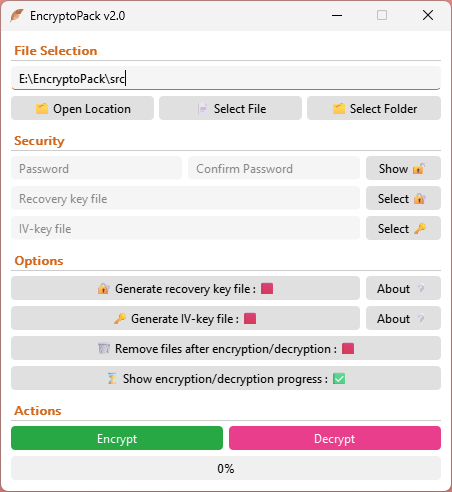
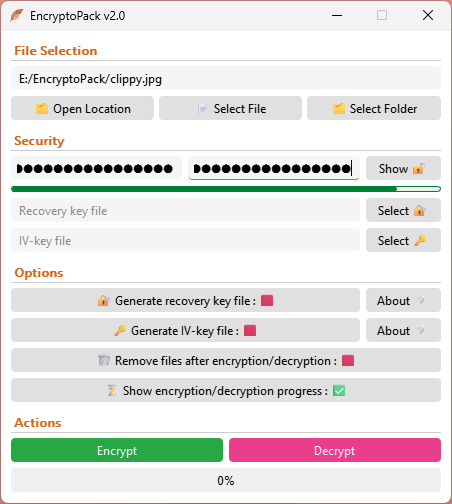
v2.1

diff --git a/src/gui.py b/src/gui.py
@@ -18,6 +18,61 @@ from PyQt6.QtCore import Qt
 import os
 import sys
 import subprocess
+import re
+
+
+class PasswordComplexityChecker:
+    """Checks password complexity and provides a strength score."""
+    @staticmethod
+    def check_password_strength(password):
+        """Check password complexity and return strength score (0-100)."""
+        if not password:
+            return 0
+
+        score = 0
+
+        # Length (max 30 points)
+        length_score = min(len(password) * 2, 30)
+        score += length_score
+
+        # Character variety (max 70 points)
+        variety_bonus = 0
+
+        # Uppercase letters
+        if re.search(r"[A-Z]", password):
+            variety_bonus += 10
+
+        # Lowercase letters
+        if re.search(r"[a-z]", password):
+            variety_bonus += 10
+
+        # Numbers
+        if re.search(r"[0-9]", password):
+            variety_bonus += 15
+
+        # Special characters
+        if re.search(r"[^A-Za-z0-9]", password):
+            variety_bonus += 20
+
+        # Additional bonus for multiple character types
+        char_types = 0
+        if re.search(r"[A-Z]", password):
+            char_types += 1
+        if re.search(r"[a-z]", password):
+            char_types += 1
+        if re.search(r"[0-9]", password):
+            char_types += 1
+        if re.search(r"[^A-Za-z0-9]", password):
+            char_types += 1
+
+        if char_types >= 3:
+            variety_bonus += 15
+        elif char_types >= 2:
+            variety_bonus += 5
+
+        score += min(variety_bonus, 70)
+
+        return min(score, 100)
 
 
 class PlaceholderLineEdit(QLineEdit):
@@ -30,7 +85,7 @@ class PlaceholderLineEdit(QLineEdit):
         user_interaction (bool): Tracks if user has interacted with the field
         user_input (bool): Tracks if user has entered any text
     """
-    def __init__(self, placeholder='', color='gray', parent=None):
+    def __init__(self, placeholder="", color="gray", parent=None):
         super().__init__(parent)
         self.placeholder = placeholder
         self.placeholder_color = QColor(color)
@@ -95,6 +150,30 @@ class StyledButton(QPushButton):
         self.setStyleSheet(UITheme.get_styled_button_style())
 
 
+class PasswordStrengthBar(QProgressBar):
+    """A progress bar that shows password strength with color coding."""
+    def __init__(self, parent=None):
+        super().__init__(parent)
+        self.setFixedHeight(6)
+        self.setTextVisible(False)
+        self.setRange(0, 100)
+        self.setValue(0)
+        self.update_style(0)
+
+    def update_strength(self, password):
+        """Update the strength bar based on password."""
+        if not password:  # Empty password
+            score = 0
+        else:
+            score = PasswordComplexityChecker.check_password_strength(password)
+        self.setValue(score)
+        self.update_style(score)
+
+    def update_style(self, score):
+        """Update the style based on password strength score."""
+        self.setStyleSheet(UITheme.get_password_strength_bar_style(score))
+
+
 class MainWindow(QMainWindow):
     """The main application window for file encryption/decryption.
 
@@ -113,7 +192,7 @@ class MainWindow(QMainWindow):
         super().__init__()
         self.setAcceptDrops(True)
         self.setWindowTitle(f"{APP_NAME} {CURRENT_VERSION}")
-        self.setFixedSize(450, 460)
+        self.setFixedSize(450, 472)
         self.setWindowOpacity(0.95)
 
         # Create application icon
@@ -129,7 +208,7 @@ class MainWindow(QMainWindow):
 
         # Create main container
         main_frame = QFrame(self)
-        main_frame.setGeometry(10, 10, 430, 444)
+        main_frame.setGeometry(10, 10, 430, 459)
 
         # Layout positions
         y_pos = 0
@@ -139,7 +218,7 @@ class MainWindow(QMainWindow):
         file_section_label.setGeometry(0, y_pos, 430, 20)
         y_pos += 25
 
-        self.file_path_entry = PlaceholderLineEdit(placeholder="File/Folder Path", color='#888', parent=main_frame)
+        self.file_path_entry = PlaceholderLineEdit(placeholder="File/Folder Path", color="#888", parent=main_frame)
         self.file_path_entry.setGeometry(0, y_pos, 430, 24)
         self.file_path_entry.setText(os.getcwd())
         y_pos += 30
@@ -166,20 +245,44 @@ class MainWindow(QMainWindow):
         security_section_label.setGeometry(0, y_pos, 430, 20)
         y_pos += 25
 
-        self.password_entry = PlaceholderLineEdit(placeholder="Password", color='#888', parent=main_frame)
+        self.password_entry = PlaceholderLineEdit(placeholder="Password", color="#888", parent=main_frame)
         self.password_entry.setGeometry(0, y_pos, 171, 24)
         self.password_entry.setEchoMode(QLineEdit.EchoMode.Password)
+        self.password_entry.textChanged.connect(self.update_password_strength)
 
-        self.confirm_password_entry = PlaceholderLineEdit(placeholder="Confirm Password", color='#888', parent=main_frame)
+        self.confirm_password_entry = PlaceholderLineEdit(placeholder="Confirm Password", color="#888", parent=main_frame)
         self.confirm_password_entry.setGeometry(177, y_pos, 172, 24)
         self.confirm_password_entry.setEchoMode(QLineEdit.EchoMode.Password)
+        self.confirm_password_entry.textChanged.connect(self.check_password_match)
 
         self.password_show_button = StyledButton("Show \U0001F513", main_frame) # \U0001F513 = 🔓
         self.password_show_button.setGeometry(355, y_pos, 75, 24)
         self.password_show_button.clicked.connect(self.toggle_password_visibility)
         y_pos += 30
 
-        self.recovery_key_entry = PlaceholderLineEdit(placeholder="Recovery key file", color='#888', parent=main_frame)
+        # Password strength bar (simple progress bar style)
+        self.password_strength_bar = PasswordStrengthBar(main_frame)
+        self.password_strength_bar.setGeometry(0, y_pos, 430, 6)
+        y_pos += 8
+
+        # Password match indicator
+        self.password_match_label = QLabel(main_frame)
+        self.password_match_label.setGeometry(0, y_pos, 430, 16)
+        self.password_match_label.setStyleSheet(
+            """
+            QLabel {
+                font-size: 11px;
+                color: #888;
+                background-color: transparent;
+                padding: 0px;
+                margin: 0px;
+            }
+        """
+        )
+        self.password_match_label.setText("")
+        y_pos += 4
+
+        self.recovery_key_entry = PlaceholderLineEdit(placeholder="Recovery key file", color="#888", parent=main_frame)
         self.recovery_key_entry.setGeometry(0, y_pos, 349, 24)
 
         self.recovery_key_select_button = StyledButton("Select \U0001F510", main_frame) # \U0001F510 = 🔐
@@ -187,7 +290,7 @@ class MainWindow(QMainWindow):
         self.recovery_key_select_button.clicked.connect(self.recovery_key_select_button_clicked)
         y_pos += 30
 
-        self.iv_key_file_entry = PlaceholderLineEdit(placeholder="IV-key file", color='#888', parent=main_frame)
+        self.iv_key_file_entry = PlaceholderLineEdit(placeholder="IV-key file", color="#888", parent=main_frame)
         self.iv_key_file_entry.setGeometry(0, y_pos, 349, 24)
 
         self.iv_key_file_select_button = StyledButton("Select \U0001F511", main_frame) # \U0001F511 = 🔑
@@ -266,6 +369,61 @@ class MainWindow(QMainWindow):
         # Apply the color palette
         self.set_color_palette()
 
+    def update_password_strength(self):
+        """Update password strength bar in real-time."""
+        password = self.password_entry.text()
+        self.password_strength_bar.update_strength(password)
+
+        # Also check password match when password changes
+        self.check_password_match()
+
+    def check_password_match(self):
+        """Check if passwords match and update indicator."""
+        password = self.password_entry.text()
+        confirm_password = self.confirm_password_entry.text()
+
+        if not password or not confirm_password:
+            self.password_match_label.setText("")
+            self.password_match_label.setStyleSheet(
+                """
+                QLabel {
+                    font-size: 11px;
+                    color: #888;
+                    background-color: transparent;
+                    padding: 0px;
+                    margin: 0px;
+                }
+            """
+            )
+        elif password == confirm_password:
+            self.password_match_label.setText("✓ Passwords match")
+            self.password_match_label.setStyleSheet(
+                """
+                QLabel {
+                    font-size: 11px;
+                    color: #007E33;
+                    background-color: transparent;
+                    font-weight: bold;
+                    padding: 0px;
+                    margin: 0px;
+                }
+            """
+            )
+        else:
+            self.password_match_label.setText("✗ Passwords do not match")
+            self.password_match_label.setStyleSheet(
+                """
+                QLabel {
+                    font-size: 11px;
+                    color: #ff4444;
+                    background-color: transparent;
+                    font-weight: bold;
+                    padding: 0px;
+                    margin: 0px;
+                }
+            """
+            )
+
     def set_color_palette(self):
         """Applies the UI theme's color palette and stylesheet to the window."""
         self.setPalette(UITheme.get_color_palette())
@@ -299,7 +457,6 @@ class MainWindow(QMainWindow):
                 self.recovery_key_entry.setText(file_path)
             else:
                 self.file_path_entry.setText(file_path)
-
 
     def update_progress(self, value):
         """Updates the progress bar with the current operation progress.
@@ -371,10 +528,10 @@ class MainWindow(QMainWindow):
         if not os.path.exists(path):
             path = os.getcwd()
 
-        if sys.platform.startswith('win'):
+        if sys.platform.startswith("win"):
             subprocess.Popen(f'explorer "{path}"', shell=False)
         else:
-            subprocess.Popen(['xdg-open', path])
+            subprocess.Popen(["xdg-open", path])
 
     def select_file(self):
         """Opens a file dialog and sets the selected file path."""
@@ -393,7 +550,7 @@ class MainWindow(QMainWindow):
         if self.password_entry.echoMode() == QLineEdit.EchoMode.Password:
             self.password_entry.setEchoMode(QLineEdit.EchoMode.Normal)
             self.confirm_password_entry.setEchoMode(QLineEdit.EchoMode.Normal)
-            self.password_show_button.setText("Hide \U0001F512") # \U0001F6E1 = 🔒
+            self.password_show_button.setText("Hide \U0001F512") # \U0001F512 = 🔒
         else:
             self.password_entry.setEchoMode(QLineEdit.EchoMode.Password)
             self.confirm_password_entry.setEchoMode(QLineEdit.EchoMode.Password)
@@ -542,7 +699,7 @@ class MainWindow(QMainWindow):
             separate_iv_key = iv_key_file.strip()
         if not recovery_key_file.strip() == "":
             hash_password = False
-            with open(recovery_key_file.strip(), 'r') as file:
+            with open(recovery_key_file.strip(), "r") as file:
                 password = file.read(64)
 
         # Disable UI during operation

diff --git a/src/themes.py b/src/themes.py
@@ -23,6 +23,27 @@ class UITheme:
         return window_color.value() < 128
 
     @staticmethod
+    def get_password_strength_color(score):
+        """Get color based on password strength score.
+
+        Args:
+            score (int): Password strength score from 0-100
+
+        Returns:
+            str: Hex color code for the strength level
+        """
+        if score < 20:
+            return "#ff4444"  # Red - Very weak
+        elif score < 40:
+            return "#ff8800"  # Orange - Weak
+        elif score < 60:
+            return "#ffbb33"  # Yellow - Fair
+        elif score < 80:
+            return "#00C851"  # Green - Good
+        else:
+            return "#007E33"  # Dark Green - Strong
+
+    @staticmethod
     def get_color_palette():
         if UITheme.is_dark_mode():
             dark_palette = QPalette()
@@ -225,6 +246,43 @@ class UITheme:
             QProgressBar::chunk {{
                 background-color: #d2691e;
                 border-radius: 4px;
+            }}
+        """
+
+    @staticmethod
+    def get_password_strength_bar_style(score):
+        """Provides styling for password strength progress bars.
+
+        Args:
+            score (int): Password strength score from 0-100
+
+        Returns:
+            str: CSS-style string for password strength QProgressBar
+        """
+        if UITheme.is_dark_mode():
+            bg = "#252525"
+            border_color = "#4a4a4a"  # Subtle border for dark mode
+        else:
+            bg = "#f0f0f0"
+            border_color = "#cccccc"  # Subtle border for light mode
+
+        # If score is 0 (empty password), use subtle border that matches background
+        if score == 0:
+            color = border_color  # Use the subtle border color
+        else:
+            color = UITheme.get_password_strength_color(score)
+
+        return f"""
+            QProgressBar {{
+                border: 1px solid {color};
+                border-radius: 3px;
+                background-color: {bg};
+                padding: 0px;
+                margin: 0px;
+            }}
+            QProgressBar::chunk {{
+                background-color: {color};
+                border-radius: 2px;
             }}
         """
 

diff --git a/changelog.md b/changelog.md
@@ -1,0 +1,23 @@
+## 📦 EncryptoPack Changelog
+
+### ✨ Version 2.1 []
+- **Added:** Real-time password strength indicator
+
+### 🔐 Version 2.0 [Aug 8, 2025]
+- **Updated:** File extension from .pack (v1.x) to .pv2
+- **Updated:** Encrypted file format (incompatible with v1.x)
+- **Added:** Password verification before decryption
+- **Added:** File association support for .pv2 files (auto-select)
+- **Added:** Drag-and-drop support for file and folder input
+- **Added:** Adaptive theming support for system light/dark mode
+- **Improved:** File selection interface with dedicated file/folder buttons
+- **Improved:** Minor UI refinements
+
+### 🖼 Version 1.1 [Aug 3, 2025]
+- **Upgraded:** GUI module migrated from PyQt5 to PyQt6
+- **Improved:** Refreshed GUI design
+- **Fixed:** Added threading to prevent freezing during encryption/decryption
+
+### 🚀 Version 1.0 [Aug 17, 2023]
+- Initial release
+

diff --git a/README.md b/README.md
@@ -51,7 +51,7 @@ Take control of your digital privacy with EncryptoPack - where security meets si
 
 No setup required! Just download the latest Windows binary from the [Releases Page](https://github.com/8gudbits/EncryptoPack/releases).
 
-<a href="https://github.com/8gudbits/EncryptoPack/releases/tag/v2.0"> <img src="https://img.shields.io/badge/Version-v2.0-orange" alt="Latest Version Badge"> </a>
+<a href="https://github.com/8gudbits/EncryptoPack/releases/tag/v2.1"> <img src="https://img.shields.io/badge/Version-v2.1-orange" alt="Latest Version Badge"> </a>
 
 #### 🛠 For Developers - Run from Source
 
